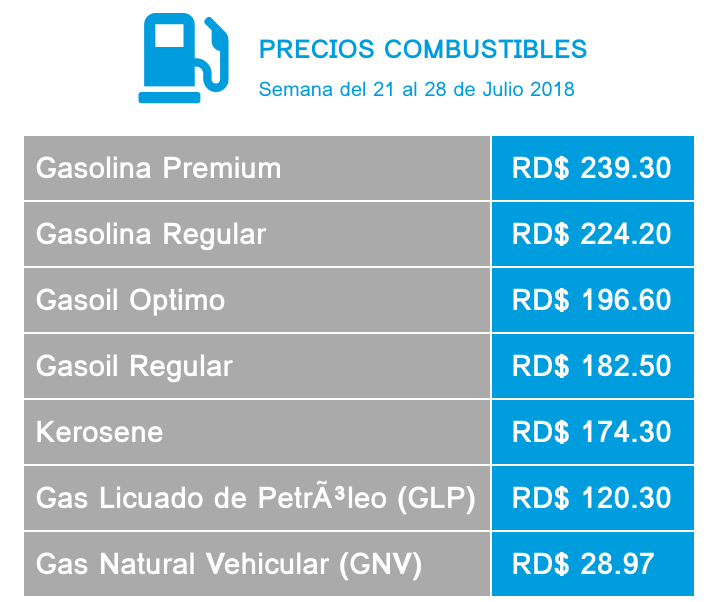
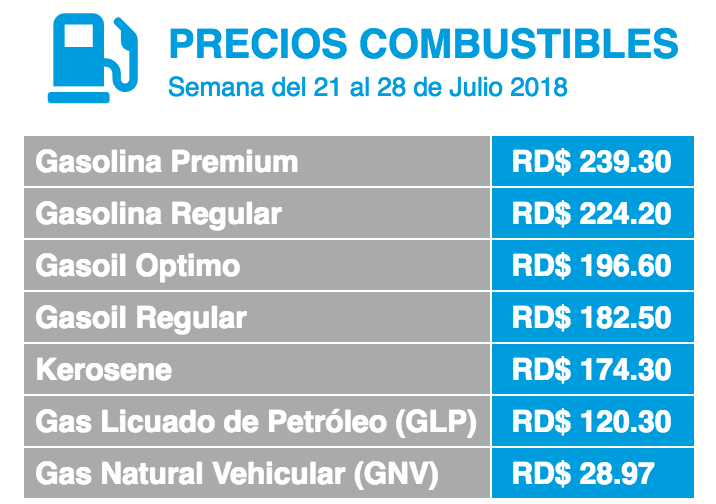
add final styling for gas prices table

Changed region(s): [[0.0307, 0.0, 0.9832, 1.0]]

diff --git a/index.js b/index.js
@@ -51,7 +51,7 @@ const generatePicture = async (browser, html, selector, padding = 0) => {
   // const browser = await puppeteer.launch();
   const page = await browser.newPage();
   page.setViewport({ width: 1000, height: 600, deviceScaleFactor: 2 }) // hit desktop breakpoint
-  await page.goto(`data:text/html,${html}`, { waitUntil: 'networkidle0' })
+  await page.goto(`data:text/html;charset=UTF-8,${html}`, { waitUntil: 'networkidle0' })
   const rect = await page.evaluate(selector => {
     const element = document.querySelector(selector)      
     const{ x, y, width, height } = element.getBoundingClientRect()
@@ -79,7 +79,8 @@ const getHTML = (body, style) => {
 body { font-family: 'Helvetica', sans-serif; box-sizing: border-box; }
 table { border-collapse: collapse; }
 div.caption { display: flex; wrap-text: break-word; padding: 0 0 10px 0; }
-span { color: #009dde; font-size: 10px; }
+div.header { height: 40px; display: flex; flex-direction: column; justify-content: center; }
+span { color: #009dde; font-size: 13px; }
 i.fa-gas-pump { align-self: center; align-self: flex-start; font-size: 45px; padding: 5px; color: #009dde; margin: 0 10px 0 0; }
 i.fa-caret-up {  color: red; margin-left: 2px; }
 i.fa-caret-down { color: green; margin-left: 2px; }
@@ -95,10 +96,12 @@ td  {
   font-weight: bold;
 }
 
-h3 { color: #009dde; text-transform: uppercase; line-height: 1.2rem; font-size: 13px; margin-bottom: 4px;}
-div.container { width: 36%; display: flex; flex-direction: column; align-items: center; }
+h3 { color: #009dde; text-transform: uppercase; line-height: 1.2rem; font-size: 20px; margin-bottom: 4px;}
+div.container { width: 36%; display: flex; flex-direction: column; align-items: center; justify-content: center; }
 </style>
 <link rel="stylesheet" href="https://use.fontawesome.com/releases/v5.1.1/css/all.css" integrity="sha384-O8whS3fhG2OnA5Kas0Y9l3cfpmYjapjI0E4theH4iuMD+pLhbf6JI0jIMfYcK3yZ" crossorigin="anonymous">
+<header>
+</header>
 <body>
 ${body}
 </body>
@@ -114,7 +117,7 @@ const getTable = async () => {
    <div class="container">
 <div class="caption">
   <i class="fas fa-gas-pump"></i>
-  <div>
+  <div class="header">
   <h3> Precios combustibles </h3>
   <span> Semana del 21 al 28 de Julio 2018 </span>
   </div>
